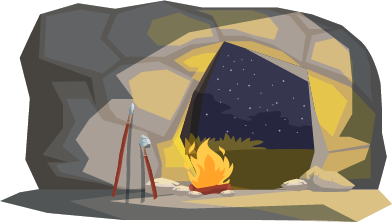
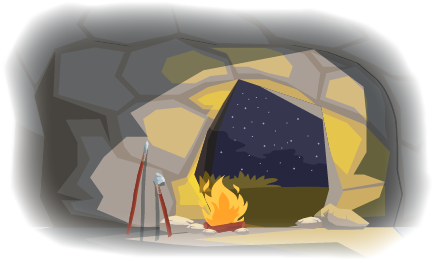
Twitter metadata

diff --git a/lib/siteConfig.ts b/lib/siteConfig.ts
@@ -1,9 +1,9 @@
 const siteConfig = {
   title: "Grug Listen Music",
-  description: "This will eventually be a real big boy website!",
+  description: "Grug write words after listen music",
   author: "Grug",
   url: "https://gruglistenmusic.com",
-  siteImage: "/images/grug-face.png",
+  siteImage: "/images/grug-main.png",
   socials: {
     twitter: "https://twitter.com/GrugListenMusic",
     instagram: "https://t.me/",

diff --git a/app/layout.tsx b/app/layout.tsx
@@ -46,7 +46,10 @@ export const metadata: Metadata = {
   },
   twitter: {
     card: "summary_large_image",
-    creator: `${config.socials.twitter.replace("https://twitter.com/", "@")}`,
+    creator: `${config.socials.twitter.replace(
+      "https://twitter.com/",
+      "@GrugListenMusic",
+    )}`,
   },
 };
 
